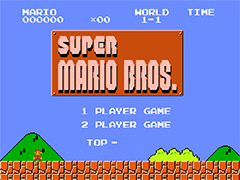
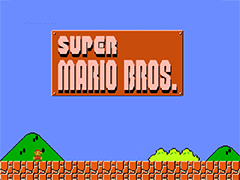
add my_text.py and middle_state interface

diff --git a/mario_main.py b/mario_main.py
@@ -1,14 +1,17 @@
 import framebuf
 import time
+from middle_state import middle_state
+from my_text import my_text
 FPS = 24
 refresh_timing = int(1000/FPS)
 blue=32620
+
 def main_menu(display, my_input):
     fbuf = framebuf.FrameBuffer(bytearray(240 * 180 * 2), 240, 180, framebuf.RGB565)
     with open('images/main_menu_bg.bin', 'rb') as f:
             for i in range(18):
                 fbuf.blit(framebuf.FrameBuffer(bytearray(f.read(4800)), 240, 10, framebuf.RGB565),0, 10*i)
-    display.blit_buffer(fbuf, 0, 30, 240, 180)
+    
     with open('images/title_page_mushroom.bin', 'rb') as f:
         mushroom = framebuf.FrameBuffer(bytearray(f.read(128)), 8, 8, framebuf.RGB565)
     coins = []
@@ -20,19 +23,31 @@ def main_menu(display, my_input):
         coins.append(framebuf.FrameBuffer(bytearray(f.read(80)), 5, 8, framebuf.RGB565))
     with open('images/coin-0-2.bin', 'rb') as f:
         coins.append(framebuf.FrameBuffer(bytearray(f.read(80)), 5, 8, framebuf.RGB565))
+    with open('images/font.bin', 'rb') as f:
+        font = f.read(4992)
     frame_timing = 1
     frame = 0
-    print(coins[0].pixel(0,0))
     player = 1
+    
+    display.blit_buffer(fbuf, 0, 30, 240, 180)
     while True:
         start_time = time.ticks_ms()
         fbuf.fill_rect(0,0,80,8,blue)
-        fbuf.fill_rect(64,107,8,21,blue)
+        fbuf.fill_rect(56,107,8,21,blue)
         fbuf.text(f'FPS:{int(1000/(frame_timing))}', 0, 0)
         
-        fbuf.blit(mushroom, 64, 94+13*player, 7160)
+        fbuf.blit(mushroom, 56, 95+12*player, 7160)
         
-        fbuf.blit(coins[frame//4%4], 83, 15, 65535)
+        fbuf.blit(coins[frame//4%4], 76, 15, 65535)
+        my_text(fbuf, 'mario', 16, 8, font)
+        my_text(fbuf, '000000', 16, 16, font)
+        my_text(fbuf, 'x00', 88, 16, font)
+        my_text(fbuf, 'world', 132, 8, font)
+        my_text(fbuf, '1-1', 140, 16, font)
+        my_text(fbuf, 'time', 192, 8, font)
+        my_text(fbuf, '1 player game', 72, 108, font)
+        my_text(fbuf, '2 player game', 72, 120, font)
+        my_text(fbuf, 'top - 000000', 76, 136, font)
         display.blit_buffer(fbuf, 0, 30, 240, 180)
         
         
@@ -41,7 +56,7 @@ def main_menu(display, my_input):
         elif(my_input.y()==-1):
             player=1
         if(my_input.A()):
-            break
+            return
         
         frame_timing = time.ticks_ms()-start_time
         if(frame_timing<refresh_timing):
@@ -51,6 +66,8 @@ def main_menu(display, my_input):
 
 def main(display, my_input):
     main_menu(display, my_input)
+    middle_state(display, my_input)
+    
     
     
 if __name__ == "__main__":

diff --git a/middle_state.py b/middle_state.py
@@ -1,0 +1,51 @@
+import framebuf
+import time
+from my_text import my_text
+FPS = 24
+refresh_timing = int(1000/FPS)
+
+def middle_state(display, my_input):
+    frame_timing = 1
+    frame = 0
+    with open('images/mario_normal.bin', 'rb') as f:
+        mario_normal = framebuf.FrameBuffer(bytearray(f.read(384)), 12, 16, framebuf.RGB565)
+    fbuf = framebuf.FrameBuffer(bytearray(240 * 180 * 2), 240, 180, framebuf.RGB565)
+    fbuf.fill(0)
+    with open('images/font.bin', 'rb') as f:
+        font = f.read(4992)
+    coins = []
+    with open('images/coin-0-1.bin', 'rb') as f:
+        coins.append(framebuf.FrameBuffer(bytearray(f.read(80)), 5, 8, framebuf.RGB565))
+    with open('images/coin-0-2.bin', 'rb') as f:
+        coins.append(framebuf.FrameBuffer(bytearray(f.read(80)), 5, 8, framebuf.RGB565))
+    with open('images/coin-0-3.bin', 'rb') as f:
+        coins.append(framebuf.FrameBuffer(bytearray(f.read(80)), 5, 8, framebuf.RGB565))
+    with open('images/coin-0-2.bin', 'rb') as f:
+        coins.append(framebuf.FrameBuffer(bytearray(f.read(80)), 5, 8, framebuf.RGB565))
+    with open('images/font.bin', 'rb') as f:
+        font = f.read(4992)
+    while True:
+        start_time = time.ticks_ms()
+        fbuf.fill_rect(0,0,80,8,0)
+        fbuf.text(f'FPS:{int(1000/(frame_timing))}', 0, 0)
+        
+        
+        fbuf.blit(coins[frame//4%4], 76, 15, 65535)
+        fbuf.blit(mario_normal, 80, 114, 65535)
+        my_text(fbuf, 'mario', 16, 8, font)
+        my_text(fbuf, '000000', 16, 16, font)
+        my_text(fbuf, 'x00', 88, 16, font)
+        my_text(fbuf, 'world', 132, 8, font)
+        my_text(fbuf, '1-1', 140, 16, font)
+        my_text(fbuf, 'time', 192, 8, font)
+        my_text(fbuf, 'world  1-1', 72, 96, font)
+        my_text(fbuf, 'x  1', 108, 120, font)
+        display.blit_buffer(fbuf, 0, 30, 240, 180)
+        
+        frame_timing = time.ticks_ms()-start_time
+        if(frame_timing<refresh_timing):
+            time.sleep_ms(refresh_timing - frame_timing)
+            frame_timing = refresh_timing
+        frame+=1
+    
+    

diff --git a/my_text.py b/my_text.py
@@ -1,0 +1,47 @@
+import framebuf
+font_map = {'0': 0,
+            '1': 1,
+            '2': 2,
+            '3': 3,
+            '4': 4,
+            '5': 5,
+            '6': 6,
+            '7': 7,
+            '8': 8,
+            '9': 9,
+            'a': 10,
+            'b': 11,
+            'c': 12,
+            'd': 13,
+            'e': 14,
+            'f': 15,
+            'g': 16,
+            'h': 17,
+            'i': 18,
+            'j': 19,
+            'k': 20,
+            'l': 21,
+            'm': 22,
+            'n': 23,
+            'o': 24,
+            'p': 25,
+            'q': 26,
+            'r': 27,
+            's': 28,
+            't': 29,
+            'u': 30,
+            'v': 31,
+            'w': 32,
+            'x': 33,
+            'y': 34,
+            'z': 35,
+            '-': 36,
+            '*': 37,
+            '!': 38}
+def my_text(buf, text, x, y, font):
+    count = 0
+    for i in text:
+        if i != ' ':
+            
+            buf.blit(framebuf.FrameBuffer(bytearray(font[font_map[i]*128:(font_map[i]+1)*128]), 8, 8, framebuf.RGB565), x+count*8, y, 48988)
+        count += 1

diff --git a/images/a.py b/images/a.py
@@ -1,0 +1,12 @@
+import imageio
+import numpy as np
+'''
+im = imageio.imread('font.png')
+for j in range(16):
+    for i in range(3):
+        imageio.imwrite(f'fonts/{i*16+j}.png', im[i*8:(i+1)*8,j*8:(j+1)*8,:])
+'''
+imgs = []
+for i in range(39):
+    imgs.append(imageio.imread(f'fonts/{i}.png'))
+imageio.imwrite('fonts/font.png', np.vstack(imgs))
